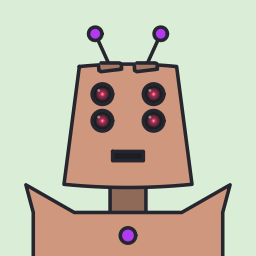
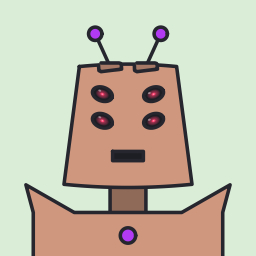
Add oval and focused eye shapes
Oval eyes are round eyes squashed to two-thirds of their height; focused
eyes are ovals with their inner ends tilted down 20 degrees (a single
centered eye stays level). Both take eye count, size and style. Facet
dependencies can now name a set of values, and the round-eye controls on
the designer page apply to all three round-family shapes.

Changed region(s): [[0.5312, 0.3125, 0.6562, 0.5312], [0.3438, 0.3125, 0.4688, 0.5312]]

diff --git a/cmd/bryc-web/static/index.html b/cmd/bryc-web/static/index.html
@@ -104,7 +104,7 @@ function checkbox(text) {
 const labels = { eyecount: 'eye count', eyesize: 'eye size', eyestyle: 'eye style' };
 
 // Facets that only matter for some value of another facet (e.g. eyecount
-// needs round eyes) are greyed out while the current robot doesn't have it.
+// needs round-family eyes) are greyed out while the current robot doesn't have it.
 const dependents = []; // {dep: {facet, value}, row}
 
 function track(f, rowEl) {
@@ -114,9 +114,9 @@ function track(f, rowEl) {
 
 function updateDependents(resolved) {
   for (const { dep, row } of dependents) {
-    const inactive = resolved.get(dep.facet) !== dep.value;
+    const inactive = !dep.values.includes(resolved.get(dep.facet));
     row.classList.toggle('inactive', inactive);
-    row.title = inactive ? `Only applies when ${dep.facet} is ${dep.value}` : '';
+    row.title = inactive ? `Only applies when ${dep.facet} is ${dep.values.join(', ')}` : '';
     for (const el of row.querySelectorAll('select, input')) el.disabled = inactive;
   }
 }

diff --git a/robot/render_test.go b/robot/render_test.go
@@ -3,6 +3,7 @@ package robot
 import (
 	"image"
 	"image/color"
+	"math"
 	"net/url"
 	"strconv"
 	"testing"
@@ -577,5 +578,80 @@ func TestRenderSmallGlowerEye(t *testing.T) {
 	}
 	if got := pixel(img, 1000, p[0]+17, p[1]); !near(got, screen) { // between the glow fade and the ring
 		t.Errorf("lens = %v, want black", got)
+	}
+}
+
+// TestRenderOvalEye checks an oval eye is two-thirds as tall as a round one:
+// a point 85% of the radius above the center is eye on a round eye and face
+// on an oval. (Dead eyes have no glow to blur the edge.)
+func TestRenderOvalEye(t *testing.T) {
+	no := false
+	body := color.NRGBA{0x33, 0x66, 0xcc, 0xff}
+	for _, c := range []struct {
+		eyes string
+		want color.NRGBA
+	}{{"round", screen}, {"oval", body}} {
+		s := Resolve(Spec{Eyes: c.eyes, EyeCount: "2", EyeSize: "3", EyeStyle: "dead", Face: &neutral,
+			Body: "#3366cc", Blush: &no}, 4)
+		p := roundEyeCenters(s, headBox)[1] // right eye; the glint sits up-left
+		if got := pixel(Render(s, 1000), 1000, p[0], p[1]-0.85*roundEyeRadius); !near(got, c.want) {
+			t.Errorf("%s: above center = %v, want %v", c.eyes, got, c.want)
+		}
+	}
+}
+
+// TestEyeTilt checks focused eyes tilt their inner ends down by 20 degrees
+// (left eyes clockwise, right eyes counter-clockwise, on screen), a single
+// centered eye stays level, and round and oval eyes never tilt.
+func TestEyeTilt(t *testing.T) {
+	const deg = math.Pi / 180
+	for _, c := range []struct {
+		eyes, count string
+		want        []float64 // per eye, in roundEyeCenters order
+	}{
+		{"focused", "2", []float64{20 * deg, -20 * deg}},
+		{"focused", "4", []float64{20 * deg, -20 * deg, 20 * deg, -20 * deg}},
+		{"focused", "1", []float64{0}},
+		{"oval", "2", []float64{0, 0}},
+		{"round", "2", []float64{0, 0}},
+	} {
+		s := Spec{Eyes: c.eyes, EyeCount: c.count, Face: &neutral}
+		for i, p := range roundEyeCenters(s, headBox) {
+			if got := eyeTilt(s, headBox, p[0]); math.Abs(got-c.want[i]) > 1e-9 {
+				t.Errorf("%s x%s eye %d: tilt %v, want %v", c.eyes, c.count, i, got, c.want[i])
+			}
+		}
+	}
+}
+
+// TestRenderFocusedEyeDirection checks the tilt direction in pixels: just
+// inside the left eye's inner end, along its tilted axis, is inside a focused
+// eye but on the outline of a level oval.
+func TestRenderFocusedEyeDirection(t *testing.T) {
+	no := false
+	for _, c := range []struct {
+		eyes   string
+		inside bool
+	}{{"focused", true}, {"oval", false}} {
+		s := Resolve(Spec{Eyes: c.eyes, EyeCount: "2", EyeSize: "3", EyeStyle: "dead", Face: &neutral,
+			Body: "#3366cc", Blush: &no}, 4)
+		p := roundEyeCenters(s, headBox)[0] // left eye: its inner end is on the right
+		a, d := focusTilt, 0.85*roundEyeRadius
+		got := pixel(Render(s, 1000), 1000, p[0]+d*math.Cos(a), p[1]+d*math.Sin(a))
+		if near(got, screen) != c.inside {
+			t.Errorf("%s: along the tilted axis = %v, inside=%v", c.eyes, got, c.inside)
+		}
+	}
+}
+
+// TestTiltedOvalWithinRound checks a tilted oval never reaches past the round
+// eye it replaces, so every face-fit rule for round eyes still holds.
+func TestTiltedOvalWithinRound(t *testing.T) {
+	r := 1.0
+	a, b := r, r*ovalAspect
+	halfW := math.Hypot(a*math.Cos(focusTilt), b*math.Sin(focusTilt))
+	halfH := math.Hypot(a*math.Sin(focusTilt), b*math.Cos(focusTilt))
+	if halfW > r || halfH > r {
+		t.Errorf("tilted oval reaches %v wide, %v tall; round eye is %v", halfW, halfH, r)
 	}
 }

diff --git a/robot/spec.go b/robot/spec.go
@@ -45,7 +45,7 @@ const (
 // Allowed values for each enum facet.
 var (
 	HeadValues       = []string{"square", "rounded", "dome", "inverted-dome", "trapezoid", "inverted-trapezoid"}
-	EyesValues       = []string{"round", "visor"}
+	EyesValues       = []string{"round", "oval", "focused", "visor"}
 	EyeCountValues   = []string{"1", "2", "4", "6"}         // round eyes only: one centered eye, or 1-3 stacked pairs
 	EyeSizeValues    = []string{"1", "2", "3", "4"}         // round eyes only, capped by the eye count (4 needs a single eye)
 	EyeStyleValues   = []string{"glower", "bright", "dead"} // round eyes only
@@ -75,7 +75,7 @@ type field struct {
 	str      *string  // KindEnum and KindColor
 	flag     **bool   // KindBool
 	num      **int    // KindRange
-	// dependsOn names a facet value this facet only has an effect with.
+	// dependsOn names the facet values this facet only has an effect with.
 	dependsOn *Dependency
 }
 
@@ -85,11 +85,11 @@ func (s *Spec) fields() []field {
 		{name: "tall", kind: KindBool, flag: &s.Tall},
 		{name: "eyes", kind: KindEnum, values: EyesValues, str: &s.Eyes},
 		{name: "eyecount", kind: KindEnum, values: EyeCountValues, str: &s.EyeCount,
-			dependsOn: &Dependency{Facet: "eyes", Value: "round"}},
+			dependsOn: roundFamily},
 		{name: "eyesize", kind: KindEnum, values: EyeSizeValues, str: &s.EyeSize,
-			dependsOn: &Dependency{Facet: "eyes", Value: "round"}},
+			dependsOn: roundFamily},
 		{name: "eyestyle", kind: KindEnum, values: EyeStyleValues, str: &s.EyeStyle,
-			dependsOn: &Dependency{Facet: "eyes", Value: "round"}},
+			dependsOn: roundFamily},
 		{name: "mouth", kind: KindEnum, values: MouthValues, str: &s.Mouth},
 		{name: "expression", kind: KindEnum, values: ExpressionValues, str: &s.Expression},
 		{name: "face", kind: KindRange, min: FaceMin, max: FaceMax, num: &s.Face},
@@ -133,16 +133,20 @@ type Facet struct {
 	Values []string `json:"values,omitempty"`
 	Min    *int     `json:"min,omitempty"` // KindRange only
 	Max    *int     `json:"max,omitempty"` // KindRange only
-	// DependsOn, if set, is the facet value this facet needs to have any
+	// DependsOn, if set, is the facet values this facet needs to have any
 	// effect; it is still resolved (randomly, if unset) either way.
 	DependsOn *Dependency `json:"dependsOn,omitempty"`
 }
 
-// Dependency is a facet value another facet depends on.
+// Dependency is the set of values of another facet a facet depends on.
 type Dependency struct {
-	Facet string `json:"facet"`
-	Value string `json:"value"`
+	Facet  string   `json:"facet"`
+	Values []string `json:"values"`
 }
+
+// roundFamily is what the round-eye facets (count, size, style) depend on:
+// oval and focused eyes are reshaped round eyes.
+var roundFamily = &Dependency{Facet: "eyes", Values: []string{"round", "oval", "focused"}}
 
 // Facets lists every facet in display order.
 func Facets() []Facet {

diff --git a/robot/part_eyes.go b/robot/part_eyes.go
@@ -1,6 +1,9 @@
 package robot
 
-import "image/color"
+import (
+	"image/color"
+	"math"
+)
 
 const eyeGap = 110 // distance from the head's center line to each eye
 
@@ -60,14 +63,49 @@ const (
 
 func eyeY(s Spec, b Layout) float64 { ey, _ := facePos(s, b); return ey }
 
-var eyeParts = map[string]part{
-	"round": func(c *canvas, s Spec, b Layout) {
-		glow, r := parseHex(s.Glow), roundEyeR(s)
-		draw := eyeStyles[s.EyeStyle]
-		for _, p := range roundEyeCenters(s, b) {
-			draw(c, p[0], p[1], r, glow)
+// Oval and focused eyes are round eyes reshaped: an oval is squashed to
+// ovalAspect of its height, and a focused eye is an oval tilted so its inner
+// end points down by focusTilt.
+const (
+	ovalAspect = 2.0 / 3
+	focusTilt  = 20 * math.Pi / 180
+)
+
+// eyeTilt is the rotation of the eye centered at x: focused eyes tilt their
+// inner ends down (clockwise on screen for eyes left of center, counter-
+// clockwise for eyes right of it); a single centered eye has no inner end.
+func eyeTilt(s Spec, b Layout, x float64) float64 {
+	switch {
+	case s.Eyes != "focused" || x == b.CX():
+		return 0
+	case x < b.CX():
+		return focusTilt
+	}
+	return -focusTilt
+}
+
+// drawRoundFamily draws round, oval and focused eyes: each is a round eye in
+// its style, squashed and tilted as a whole. gg doesn't scale line widths, so
+// outlines keep their thickness.
+func drawRoundFamily(c *canvas, s Spec, b Layout) {
+	glow, r := parseHex(s.Glow), roundEyeR(s)
+	draw := eyeStyles[s.EyeStyle]
+	for _, p := range roundEyeCenters(s, b) {
+		x, y := p[0], p[1]
+		c.dc.Push()
+		c.dc.RotateAbout(eyeTilt(s, b, x), x, y)
+		if s.Eyes != "round" {
+			c.dc.ScaleAbout(1, ovalAspect, x, y)
 		}
-	},
+		draw(c, x, y, r, glow)
+		c.dc.Pop()
+	}
+}
+
+var eyeParts = map[string]part{
+	"round":   drawRoundFamily,
+	"oval":    drawRoundFamily,
+	"focused": drawRoundFamily,
 	"visor": func(c *canvas, s Spec, b Layout) {
 		glow, y := parseHex(s.Glow), eyeY(s, b)
 		c.dc.DrawRoundedRectangle(b.CX()-visorHalfWidth, y-55, 2*visorHalfWidth, 110, 55)

diff --git a/robot/spec_test.go b/robot/spec_test.go
@@ -113,7 +113,7 @@ func TestFacets(t *testing.T) {
 		"head":       {"square", "rounded", "dome", "inverted-dome", "trapezoid", "inverted-trapezoid"},
 		"mouth":      {"grille", "slot", "line", "jaw"},
 		"expression": {"flat", "smile", "frown"},
-		"eyes":       {"round", "visor"},
+		"eyes":       {"round", "oval", "focused", "visor"},
 		"eyecount":   {"1", "2", "4", "6"},
 		"eyesize":    {"1", "2", "3", "4"},
 		"eyestyle":   {"glower", "bright", "dead"},
@@ -130,8 +130,9 @@ func TestFacets(t *testing.T) {
 		}
 	}
 	for _, name := range []string{"eyecount", "eyesize", "eyestyle"} {
-		if d := byName[name].DependsOn; d == nil || *d != (Dependency{Facet: "eyes", Value: "round"}) {
-			t.Errorf("%s dependsOn = %+v, want eyes=round", name, d)
+		want := &Dependency{Facet: "eyes", Values: []string{"round", "oval", "focused"}}
+		if d := byName[name].DependsOn; !reflect.DeepEqual(d, want) {
+			t.Errorf("%s dependsOn = %+v, want %+v", name, d, want)
 		}
 	}
 	if byName["head"].DependsOn != nil {

diff --git a/docs/superpowers/specs/2026-09-24-bryc-design.md b/docs/superpowers/specs/2026-09-24-bryc-design.md
@@ -51,10 +51,10 @@ Each facet is either **pinned** (set by the user) or **unset** (randomized).
 |--------------|-----------------------------------------------------|
 | `head`       | `square`, `rounded`, `dome`, `inverted-dome` (flat top, round bottom), `trapezoid`, `inverted-trapezoid` (wide top, narrow bottom) |
 | `tall`       | `true`, `false` — head extends 80 units upward and is 30 units narrower; the face, ears and rivets stay anchored to the head's bottom, so it reads as a taller forehead |
-| `eyes`       | `round`, `visor`                                    |
-| `eyecount`   | `1`, `2`, `4`, `6` — round eyes only: one centered eye, or 1–3 stacked pairs, smaller as there are more. Resolved either way; the web page greys it out unless the eyes are round |
-| `eyesize`    | `1`–`4` — round eyes only: radius 25 / 40 / 58 / 95, capped at the eye count's size (6 eyes → 1, 4 → 2, 2 → 3, 1 → 4); eyes keep their positions |
-| `eyestyle`   | `glower` (HAL-style: metal ring, black lens, glow lit in the center), `bright` (glow-filled, glowing over its outline, with a hot spot), `dead` (black lens with a glint) — round eyes only |
+| `eyes`       | `round`, `oval` (round squashed to 2/3 height), `focused` (oval with inner ends tilted down 20°; a single eye stays level), `visor` |
+| `eyecount`   | `1`, `2`, `4`, `6` — round-family eyes (round, oval, focused): one centered eye, or 1–3 stacked pairs, smaller as there are more. Resolved either way; the web page greys it out unless the eyes are round, oval or focused |
+| `eyesize`    | `1`–`4` — round-family eyes only: radius 25 / 40 / 58 / 95, capped at the eye count's size (6 eyes → 1, 4 → 2, 2 → 3, 1 → 4); eyes keep their positions |
+| `eyestyle`   | `glower` (HAL-style: metal ring, black lens, glow lit in the center), `bright` (glow-filled, glowing over its outline, with a hot spot), `dead` (black lens with a glint) — round-family eyes only |
 | `mouth`      | `grille`, `slot` (small rectangular opening), `line`, `jaw` (U-shaped plate hugging the lower face, following the head shape) |
 | `expression` | `flat`, `smile`, `frown` — a slight bend applied to any mouth |
 | `face`       | integer `-1`–`2`: `0` neutral; `-1` moves eyes, mouth and blush down and closer together; `+1` raises the eyes toward the top of the head (less on dome/trapezoid heads); `+2` keeps the `+1` eyes and raises the mouth close under them. Parts move, never deform |

diff --git a/README.md b/README.md
@@ -16,6 +16,7 @@ go run ./cmd/bryc --face=2                          # face position -1 (low) .. 
 go run ./cmd/bryc --eyes=round --eyecount=6        # 2, 4 or 6 round eyes
 go run ./cmd/bryc --eyes=round --eyesize=1         # smaller round eyes (1..4, capped by eyecount)
 go run ./cmd/bryc --eyecount=1 --eyesize=4 --eyestyle=glower  # the HAL look
+go run ./cmd/bryc --eyes=focused --eyestyle=bright  # eyes: round oval focused visor
 go run ./cmd/bryc --seed=42 --size=1024 -o bot.png # reproduce a robot
 go run ./cmd/bryc -h                               # all options
 ```
